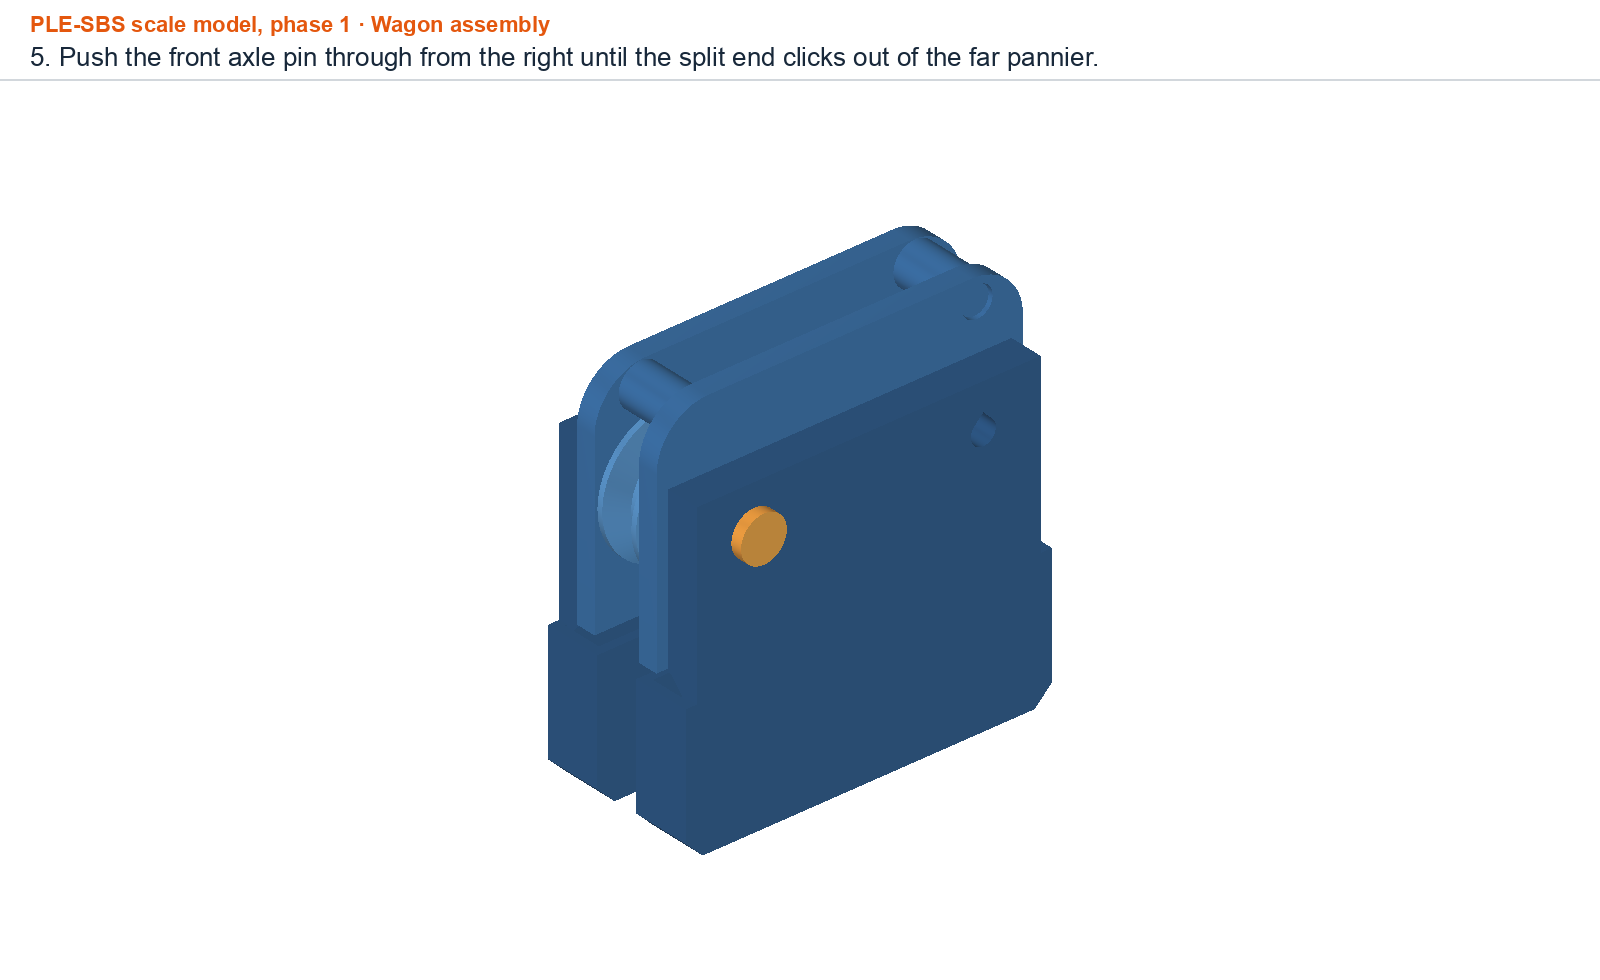
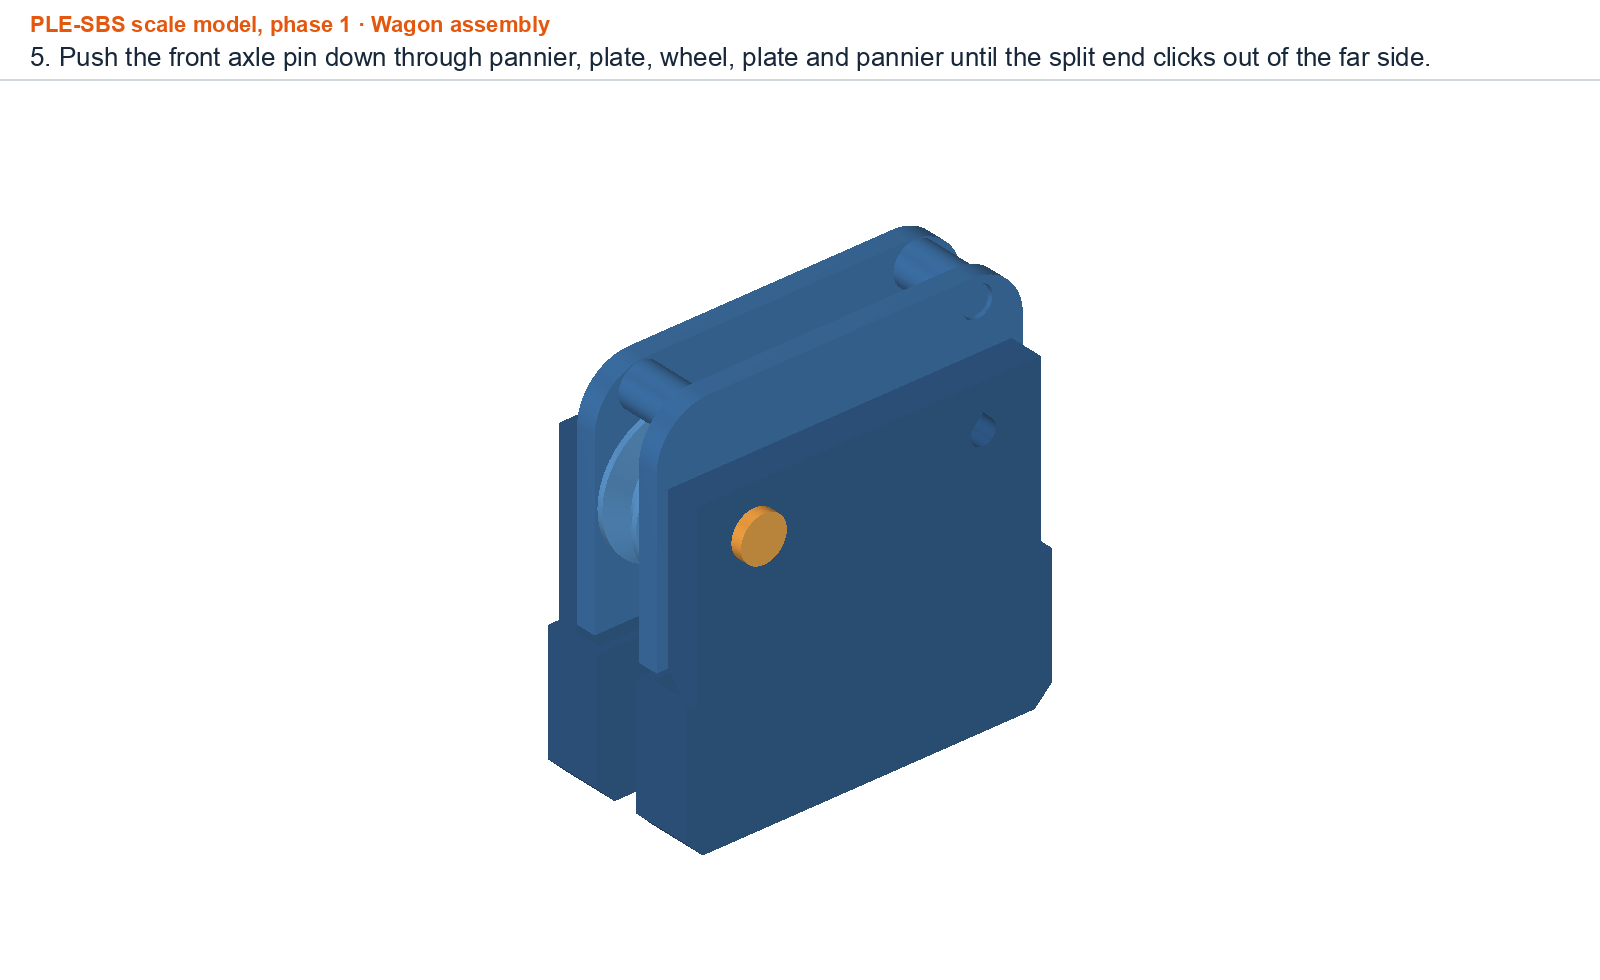
Phase 1: one video of assembly, fitting and motion; wagon stacked flat, nuts in the sled

Changed region(s): [[0.1875, 0.0306, 0.875, 0.0918]]

diff --git a/scale_down/assembly/make_full_video.py b/scale_down/assembly/make_full_video.py
@@ -1,0 +1,147 @@
+"""One video of the whole of phase 1: assembly step by step, fitting the moving parts, each
+moving part through its positions, and the three-wagon run, with title cards and the check
+results at the end. Built from the composed frames that make_media.py writes.
+
+Run after make_media.py:  .venv/bin/python scale_down/assembly/make_full_video.py
+-> scale_down/assembly/video/phase1_full.mp4
+"""
+import json
+import re
+import subprocess
+from pathlib import Path
+
+from PIL import Image, ImageDraw
+
+from make_media import BUILD, F_CAP, F_SMALL, F_TITLE, GREY, INK, ACCENT, VIDEO, font
+
+HERE = Path(__file__).resolve().parent
+ROOT = HERE.parent
+W, H = 1920, 1240
+CARDS = HERE / "build" / "cards"
+F_BIG, F_H2, F_B = font(64, True), font(38, True), font(32)
+
+SECTIONS = [
+    ("wagon", "1. Wagon assembly", "Two identical plates, two wheels, two identical panniers, two printed axle pins. No screws: the pins snap through.",
+     ["Lay the parts flat on the table in a stack: pannier, plate, wheels, plate, pannier.",
+      "Push each axle pin down through all five until its split end clicks out.",
+      "The peg shoulders set the plate gap; the wheels then have 0.2 mm of side play."]),
+    ("yard", "2. Yard assembly", "Eighteen steps from the handover to the wire. Always lower the piece with the slot onto the piece with the tab.",
+     ["The tongue slides under the end of the entry rail onto its post.",
+      "The rocker bridge drops over the ring of teeth onto four pegs.",
+      "Thread from the flap's crank to the rocker's outer arm: tight to 1.5 mm slack all work."]),
+    ("ends", "3. Wire ends and start gate", "Three turns round the hook's post and a wedge at the window; a clamp, a key and a hook lever at the gate.",
+     ["The gate hangs on the wire by itself; the key locks it.",
+      "The lever's hook drops in front of the wagon's rear spacer peg.",
+      "Lift the lever about 20 degrees to release."]),
+    ("moving", "4. Moving parts, checked in every position", "Tongue at each bay, rocker tipped and at rest, flap through its swing.",
+     ["Each position was measured against every neighbouring part.",
+      "At the mid-tilt both fingers are inside the tooth band, so the tongue can never run free."]),
+    ("run", "5. Three wagons", "Down the wire, onto the rail at the same height, across the points, into bays R, C and L.",
+     ["The flap lifts, the thread tips the rocker, the spring steps the tongue one lane.",
+      "The tongue only moves after the wagon's rear wheel has left it.",
+      "Comb, sled and chain, then the bumper, stop each wagon."]),
+]
+
+
+def card(name, title, sub, bullets, big=False):
+    CARDS.mkdir(parents=True, exist_ok=True)
+    im = Image.new("RGB", (W, H), "white")
+    d = ImageDraw.Draw(im)
+    d.rectangle([0, 0, W, 14], fill=ACCENT)
+    d.text((110, 150), "PLE-SBS scale model 1:50 · phase 1", font=F_TITLE, fill=ACCENT)
+    d.text((110, 215), title, font=F_BIG, fill=INK)
+    y = 330
+    for ln in wrap(d, sub, F_H2, W - 220):
+        d.text((110, y), ln, font=F_H2, fill=GREY)
+        y += 52
+    y += 40
+    for b in bullets:
+        for i, ln in enumerate(wrap(d, b, F_B, W - 300)):
+            d.text((150 if i == 0 else 190, y), ("•  " if i == 0 else "") + ln, font=F_B, fill=INK)
+            y += 48
+        y += 14
+    p = CARDS / f"{name}.png"
+    im.save(p)
+    return p
+
+
+def wrap(d, text, f, width):
+    words, lines, cur = text.split(), [], ""
+    for w in words:
+        t = (cur + " " + w).strip()
+        if d.textlength(t, font=f) > width and cur:
+            lines.append(cur)
+            cur = w
+        else:
+            cur = t
+    lines.append(cur)
+    return lines
+
+
+def pad(p):
+    """Composed frame onto the common canvas, cached."""
+    out = CARDS / ("f_" + p.name)
+    if not out.exists():
+        im = Image.open(p).convert("RGB")
+        if im.width > W or im.height > H:
+            im.thumbnail((W, H))
+        c = Image.new("RGB", (W, H), "white")
+        c.paste(im, ((W - im.width) // 2, (H - im.height) // 2))
+        c.save(out)
+    return out
+
+
+def facts():
+    def grab(path, pat, default="?"):
+        t = Path(path).read_text() if Path(path).exists() else ""
+        m = re.search(pat, t)
+        return m.group(1) if m else default
+    fit = Path(ROOT / "check" / "assembly_report.md").read_text()
+    pc = Path(HERE / "path_check_report.md").read_text()
+    paths = [l for l in pc.splitlines() if l.startswith("- ") and (": clear" in l or "CLASH" in l)]
+    return [
+        f"Fit check, every part in its working position: {len(re.findall('CLASH|JAM|FAILED', fit))} clashes, every running fit 0.2 mm per side",
+        f"Assembly paths replayed step by step: {sum(': clear' in l for l in paths)} of {len(paths)} clear (snap fits excepted)",
+        f"Three-wagon run: {sum('CLASH' in l for l in pc.splitlines() if l.startswith('- CLASH'))} clashes; the tongue steps R, C, L",
+        f"FreeCAD, assembled yard: {grab(ROOT / 'check' / 'freecad_report.md', r'more than 0.05 mm³: (\d+)')} of {grab(ROOT / 'check' / 'freecad_report.md', r'(\d+) with overlapping')} pairs overlapping",
+        f"FreeCAD, {grab(HERE / 'freecad_motion_report.md', r'(\d+) frames replayed')} moving frames: {grab(HERE / 'freecad_motion_report.md', r'Unexplained overlaps above 0.05 mm³: (\d+)')} unexplained overlaps",
+        "Not checked by any of this: forces, friction, bounce. First runs: full drop, empty pods, then add ballast.",
+    ]
+
+
+def main():
+    sb = json.load(open(BUILD / "storyboard.json"))
+    frames = sb["frames"]
+    fps = {"run": 18, "wagon": 15, "yard": 15, "ends": 15, "moving": 1}
+    lst = BUILD / "full_list.txt"
+    entries = []
+    entries.append((card("title", "Phase 1: assembly, fitting and motion", "Every part placed and moved in FreeCAD before printing. Screenshots and animation are renders of the actual part files.",
+                         ["1. Wagon assembly   2. Yard assembly   3. Wire ends and start gate", "4. Moving parts in every position   5. Three wagons down the wire"]), 6.0))
+    for seq, title, sub, bullets in SECTIONS:
+        entries.append((card(seq, title, sub, bullets), 7.0))
+        for i, fr in enumerate(frames):
+            if fr["seq"] != seq:
+                continue
+            p = BUILD / "composed" / f"{seq}_{i:05d}.png"
+            if not p.exists():
+                continue
+            hold = fr.get("hold", 1) / fps[seq]
+            if fr.get("still"):
+                hold = max(hold, 3.5 if seq != "run" else 2.5)
+            if seq == "moving":
+                hold = 4.0
+            entries.append((pad(p), hold))
+    entries.append((card("end", "What was checked", "All five checks on the final part files (the reports are in scale_down/check and scale_down/assembly).", facts()), 12.0))
+    with open(lst, "w") as f:
+        for p, dur in entries:
+            f.write(f"file '{p}'\nduration {dur:.4f}\n")
+        f.write(f"file '{entries[-1][0]}'\n")
+    out = VIDEO / "phase1_full.mp4"
+    subprocess.run(["ffmpeg", "-y", "-loglevel", "error", "-f", "concat", "-safe", "0", "-i", str(lst), "-vf", "format=yuv420p",
+                    "-c:v", "libx264", "-crf", "23", "-preset", "slow", "-r", "30", "-movflags", "+faststart", str(out)], check=True)
+    total = sum(d for _, d in entries)
+    print(f"wrote {out.name}: {len(entries)} frames, {total / 60:.1f} min, {out.stat().st_size / 1e6:.1f} MB")
+
+
+if __name__ == "__main__":
+    main()

diff --git a/scale_down/assembly/make_storyboard.py b/scale_down/assembly/make_storyboard.py
@@ -332,7 +332,7 @@ def wagon_sequence():
     placed_["pod_plate_L"] = I4
     mv = [("pod_pannier_R", Tr(0, 45, 0), I4), ("pod_pannier_L", Tr(0, -45, 0), I4)]
     path_check("both panniers held against the outer faces of the plates", mv, placed_)
-    animate(seq, placed_, mv, 14, ["wagon_out"], "4. Stand the sandwich up. Hold a pannier against each plate, arm holes in line with the axle holes.", still="wagon_04_panniers")
+    animate(seq, placed_, mv, 14, ["wagon_out"], "4. Keep the stack lying flat on the table (the picture is tilted to show the holes). Put a pannier against each plate, arm holes in line with the axle holes.", still="wagon_04_panniers")
     placed_.update({"pod_pannier_R": I4, "pod_pannier_L": I4})
     mv = [("pod_pin_front", Tr(0, 42, 0), I4), ("pod_pin_rear", Tr(0, 42, 0), I4)]
     ok = path_check("axle pins pushed in from the right: arm, plate, wheel, plate, arm",
@@ -341,9 +341,9 @@ def wagon_sequence():
     LOCAL["_pin_shank"] = P.cyl(P.PIN_SPAN + 2.0, P.AXLE_D).rotate([90, 0, 0]).translate([0, P.ARM_Y1, 0])
     for x in (-P.AX_X, P.AX_X):
         path_check(f"axle pin shank alone at x = {x:+.0f} (snap bump removed)", [("_pin_shank", Tr(x, 42, 0), Tr(x, 0, 0))], placed_, n=60)
-    animate(seq, placed_, [mv[0]], 16, ["wagon_out"], "5. Push the front axle pin through from the right until the split end clicks out of the far pannier.", still="wagon_05_pin_front")
+    animate(seq, placed_, [mv[0]], 16, ["wagon_out"], "5. Push the front axle pin down through pannier, plate, wheel, plate and pannier until the split end clicks out of the far side.", still="wagon_05_pin_front")
     placed_["pod_pin_front"] = I4
-    animate(seq, placed_, [mv[1]], 16, ["wagon_out"], "6. Same for the rear pin. The wheels now spin freely with 0.2 mm side play.", still="wagon_06_pin_rear")
+    animate(seq, placed_, [mv[1]], 16, ["wagon_out"], "6. Same for the rear pin. The peg shoulders set the plate gap; the wheels spin with 0.2 mm side play.", still="wagon_06_pin_rear")
     placed_["pod_pin_rear"] = I4
     # onto the wire
     LOCAL["_wire_short"] = P.cyl_x(-120, 120, P.WIRE_D, 0, -P.R_WIRE)
@@ -494,7 +494,7 @@ def yard_sequence():
                 OBJ[nm] = dict(OBJ[nm0])
             mv.append((nm, bay_M(k, 420, 30), bay_M(k, 420)))
     path_check("sleds and chains laid in the chain-bed troughs", mv, placed_)
-    animate(seq, dict(placed_), mv, 10, ["yard"], "17. In each chain bed: the sled in the trough just past the start, coins in it, the chain in the trough ahead of it.",
+    animate(seq, dict(placed_), mv, 10, ["yard"], "17. In each chain bed: the sled in the trough just past the start, a few M4 nuts in it, the chain tied to its back and laid in the trough behind it.",
             still="yard_17_sleds", thread=th)
     for nm, _, M1 in mv:
         placed_[nm] = M1

diff --git a/scale_down/assembly/README.md b/scale_down/assembly/README.md
@@ -20,11 +20,11 @@ Two identical plates, two wheels, two identical panniers and two printed axle pi
 
 ![3. Plate L on top, turned end for end: its peg goes into plate R's hole and plate R's peg into its hole.](steps/wagon_03_plate_L.png)
 
-![4. Stand the sandwich up. Hold a pannier against each plate, arm holes in line with the axle holes.](steps/wagon_04_panniers.png)
+![4. Keep the stack lying flat on the table (the picture is tilted to show the holes). Put a pannier against each plate, arm holes in line with the axle holes.](steps/wagon_04_panniers.png)
 
-![5. Push the front axle pin through from the right until the split end clicks out of the far pannier.](steps/wagon_05_pin_front.png)
+![5. Push the front axle pin down through pannier, plate, wheel, plate and pannier until the split end clicks out of the far side.](steps/wagon_05_pin_front.png)
 
-![6. Same for the rear pin. The wheels now spin freely with 0.2 mm side play.](steps/wagon_06_pin_rear.png)
+![6. Same for the rear pin. The peg shoulders set the plate gap; the wheels spin with 0.2 mm side play.](steps/wagon_06_pin_rear.png)
 
 ![7. Hang it on the wire: lower it so the wire passes up between the baskets, through the slot between the lips, into the wheel grooves.](steps/wagon_07_on_wire.png)
 
@@ -64,7 +64,7 @@ Always lower the piece with the slot onto the piece with the tab. The tongue goe
 
 ![16. Thread from the crank's hole to the hole at the end of the rocker's arm, straight but not lifting the rocker (0 to 1.5 mm slack).](steps/yard_16_thread.png)
 
-![17. In each chain bed: the sled in the trough just past the start, coins in it, the chain in the trough ahead of it.](steps/yard_17_sleds.png)
+![17. In each chain bed: the sled in the trough just past the start, a few M4 nuts in it, the chain tied to its back and laid in the trough behind it.](steps/yard_17_sleds.png)
 
 ![18. Lay the wire: in the groove on the handover's head, down the dive slot, along the groove under the handover and the turnout, on to the furniture leg.](steps/yard_18_wire.png)
 
